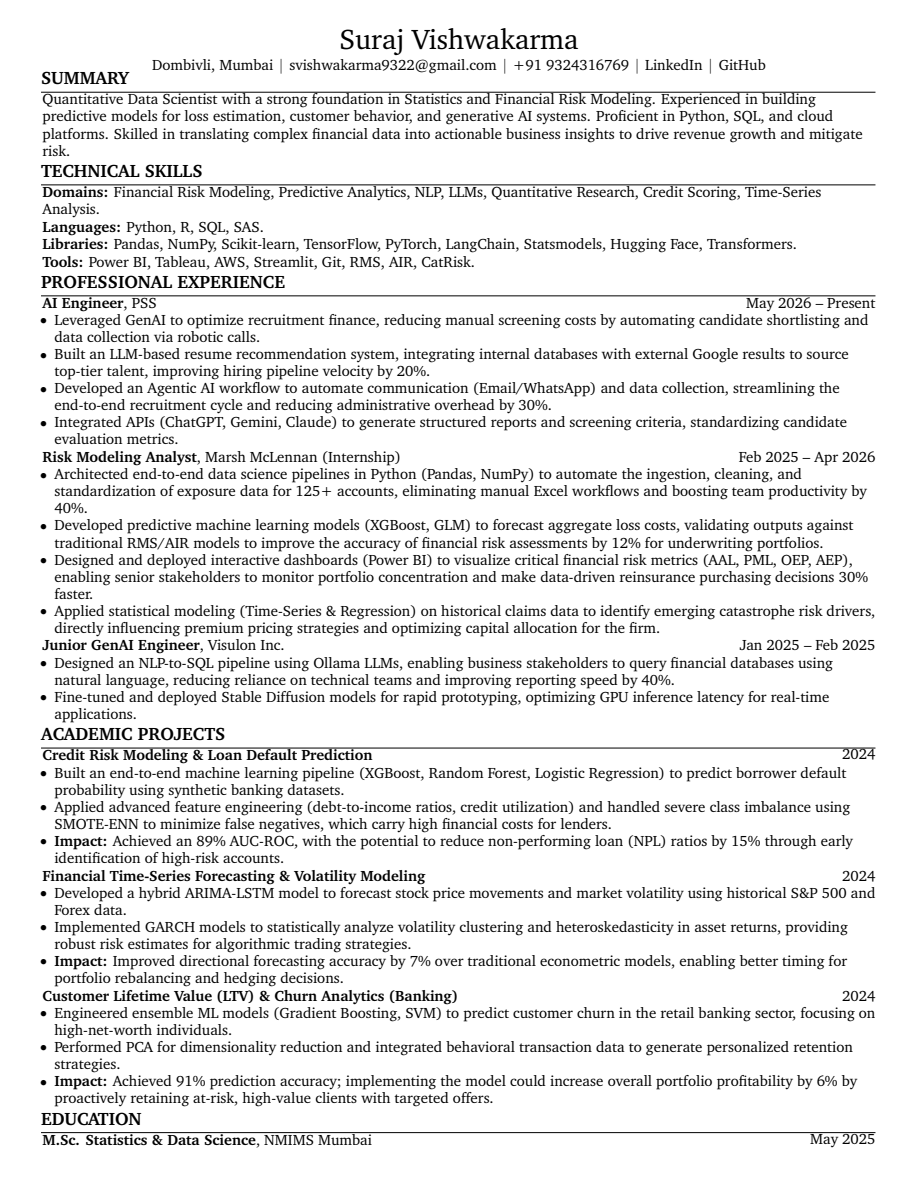
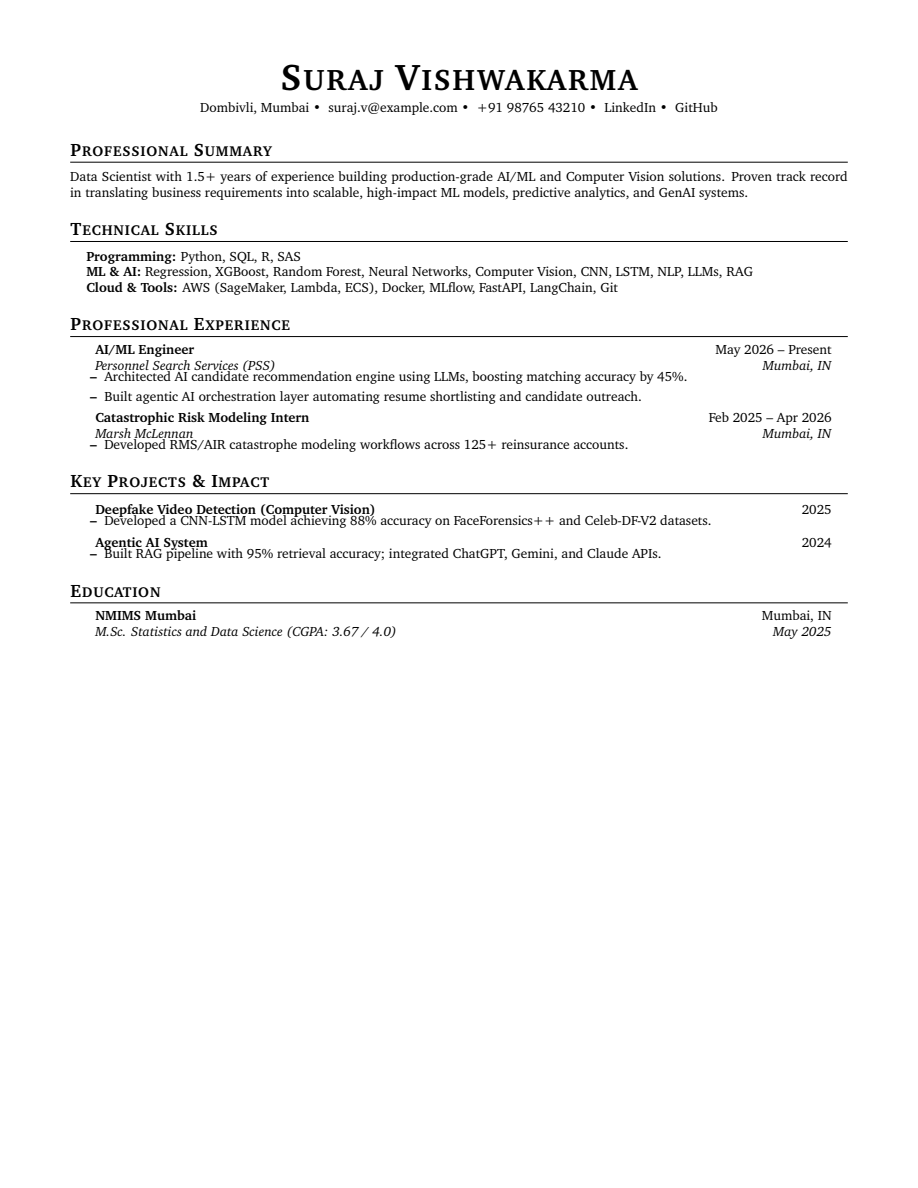
Sanitize contact info with dummy placeholders & redesign Executive Charter LaTeX template for single-page layout

Changed region(s): [[0.0305, 0.0311, 0.9455, 0.9655]]

diff --git a/static/index.html b/static/index.html
@@ -155,11 +155,11 @@
                             </div>
                             <div class="form-field">
                                 <label>Email</label>
-                                <input type="email" id="scratchEmail" value="svishwakarma9322@gmail.com">
+                                <input type="email" id="scratchEmail" value="suraj.v@example.com">
                             </div>
                             <div class="form-field">
                                 <label>Phone</label>
-                                <input type="text" id="scratchPhone" value="+91 9324316769">
+                                <input type="text" id="scratchPhone" value="+91 98765 43210">
                             </div>
                             <div class="form-field full-width">
                                 <label>Summary</label>

diff --git a/compile.py b/compile.py
@@ -270,142 +270,71 @@ TEMPLATE_ACADEMIC_CV = r"""
 # TEMPLATE 5: EXECUTIVE CHARTER (Charter Font Single-Column)
 # ==============================================================================
 TEMPLATE_EXECUTIVE_CHARTER = r"""
-\documentclass[10pt, letterpaper]{article}
-
-\usepackage[
-    ignoreheadfoot,
-    top=1.5 cm,
-    bottom=1.5 cm,
-    left=1.2 cm,
-    right=1.2 cm,
-    footskip=0.8 cm,
-]{geometry}
+\documentclass[letterpaper,10pt]{article}
+\usepackage[top=0.6in,bottom=0.6in,left=0.65in,right=0.65in]{geometry}
 \usepackage{titlesec}
 \usepackage{tabularx}
-\usepackage{array}
-\usepackage[dvipsnames]{xcolor}
-\definecolor{primaryColor}{RGB}{0, 0, 0}
 \usepackage{enumitem}
-\usepackage{fontawesome5}
-\usepackage{amsmath}
-\usepackage[
-    pdftitle={{{NAME}} - Resume},
-    pdfauthor={{{NAME}}},
-    colorlinks=true,
-    urlcolor=primaryColor
-]{hyperref}
-\usepackage[pscoord]{eso-pic}
-\usepackage{calc}
-\usepackage{bookmark}
-\usepackage{lastpage}
-\usepackage{changepage}
-\usepackage{paracol}
-\usepackage{ifthen}
-\usepackage{needspace}
-\usepackage{iftex}
-
-\ifPDFTeX
-    \input{glyphtounicode}
-    \pdfgentounicode=1
-    \usepackage[T1]{fontenc}
-    \usepackage[utf8]{inputenc}
-    \usepackage{lmodern}
-\fi
-
+\usepackage[hidelinks]{hyperref}
 \usepackage{charter}
+\usepackage{xcolor}
 
-\raggedright
-\AtBeginEnvironment{adjustwidth}{\partopsep0pt}
 \pagestyle{empty}
-\setcounter{secnumdepth}{0}
 \setlength{\parindent}{0pt}
-\setlength{\topskip}{0pt}
-\setlength{\columnsep}{0.1cm}
-\pagenumbering{gobble}
+\linespread{0.96}\selectfont
 
-\titleformat{\section}{\needspace{4\baselineskip}\bfseries\large}{}{0pt}{}[\vspace{1pt}\titlerule]
+\titleformat{\section}{
+  \vspace{-3pt}\scshape\raggedright\large\bfseries
+}{}{0em}{}[\color{black}\titlerule \vspace{-4pt}]
 
-\titlespacing{\section}{-1pt}{0.2 cm}{0.15 cm}
-
-\renewcommand\labelitemi{$\vcenter{\hbox{\small$\bullet$}}$}
-\newenvironment{highlights}{
-    \begin{itemize}[
-        topsep=0.03 cm,
-        parsep=0.02 cm,
-        partopsep=0pt,
-        itemsep=0.02 cm,
-        leftmargin=0 cm + 8pt
-    ]
-}{
-    \end{itemize}
+\newcommand{\charterSubheading}[4]{
+  \vspace{-2pt}\item
+    \begin{tabular*}{0.97\textwidth}[t]{l@{\extracolsep{\fill}}r}
+      \textbf{#1} & #2 \\
+      \textit{\small#3} & \textit{\small #4} \\
+    \end{tabular*}\vspace{-6pt}
 }
 
-\newenvironment{onecolentry}{
-    \begin{adjustwidth}{0 cm + 0.00001 cm}{0 cm + 0.00001 cm}
-}{
-    \end{adjustwidth}
+\newcommand{\charterProjectHeading}[2]{
+    \item
+    \begin{tabular*}{0.97\textwidth}{l@{\extracolsep{\fill}}r}
+      \small#1 & #2 \\
+    \end{tabular*}\vspace{-6pt}
 }
-
-\newenvironment{twocolentry}[2][]{
-    \onecolentry
-    \def\secondColumn{#2}
-    \setcolumnwidth{\fill, 3.5 cm}
-    \begin{paracol}{2}
-}{
-    \switchcolumn \raggedleft \secondColumn
-    \endonecolentry
-}
-
-\newenvironment{header}{
-    \setlength{\topsep}{0pt}\par\kern\topsep\centering\linespread{1.3}
-}{
-    \par\kern\topsep
-}
-
-\let\hrefWithoutArrow\href
 
 \begin{document}
-    \newcommand{\AND}{\unskip
-        \cleaders\copy\ANDbox\hskip\wd\ANDbox
-        \ignorespaces
-    }
-    \newsavebox\ANDbox
-    \sbox\ANDbox{$|$}
 
-    \begin{header}
-        \fontsize{22 pt}{22 pt}\selectfont {{NAME}}
+\begin{center}
+    {\Huge \scshape \bfseries {{NAME}}} \\[4pt]
+    \small {{CONTACT_LINE}}
+\end{center}
 
-        \vspace{3 pt}
+\vspace{-6pt}
 
-        \normalsize
-        {{CONTACT_LINE}}
-    \end{header}
+\section{Professional Summary}
+\small{{{SUMMARY_SECTION}}}
 
-    \vspace{3 pt - 0.3 cm}
-
-    \section{PROFESSIONAL SUMMARY}
-    \begin{onecolentry}
-{{SUMMARY_SECTION}}
-    \end{onecolentry}
-
-    \section{TECHNICAL SKILLS}
+\section{Technical Skills}
+\begin{itemize}[leftmargin=0.15in, label={}, itemsep=1pt, topsep=2pt]
+    \small{\item{
 {{SKILLS_SECTION}}
+    }}
+\end{itemize}
 
-    \section{PROFESSIONAL EXPERIENCE}
+\section{Professional Experience}
+\begin{itemize}[leftmargin=0.15in, label={}]
 {{EXPERIENCE_SECTION}}
+\end{itemize}
 
-    \section{KEY PROJECTS \& IMPACT}
+\section{Key Projects \& Impact}
+\begin{itemize}[leftmargin=0.15in, label={}]
 {{PROJECTS_SECTION}}
+\end{itemize}
 
-    \section{EDUCATION}
+\section{Education}
+\begin{itemize}[leftmargin=0.15in, label={}]
 {{EDUCATION_SECTION}}
-
-    \section{CERTIFICATIONS \& ACHIEVEMENTS}
-    \begin{onecolentry}
-        \begin{highlights}
-{{CERTIFICATIONS_SECTION}}
-        \end{highlights}
-    \end{onecolentry}
+\end{itemize}
 
 \end{document}
 """
@@ -470,7 +399,7 @@ DEFAULT_PROJECTS_LATEX = r"""\textbf{Credit Risk Modeling \& Loan Default Predic
 Built an end-to-end machine learning pipeline (XGBoost, Random Forest) to predict borrower default probability."""
 
 BASE_LATEX_TEMPLATE = TEMPLATE_JAKE_RYAN
-BASE_LATEX_CODE = TEMPLATE_JAKE_RYAN.replace("{{SUMMARY_SECTION}}", DEFAULT_SUMMARY_LATEX).replace("{{SKILLS_SECTION}}", DEFAULT_SKILLS_LATEX).replace("{{PROJECTS_SECTION}}", DEFAULT_PROJECTS_LATEX).replace("{{NAME}}", "Suraj Vishwakarma").replace("{{CONTACT_LINE}}", "Dombivli, Mumbai $|$ svishwakarma9322@gmail.com $|$ +91 9324316769 $|$ LinkedIn $|$ GitHub").replace("{{EDUCATION_SECTION}}", "").replace("{{EXPERIENCE_SECTION}}", "")
+BASE_LATEX_CODE = TEMPLATE_JAKE_RYAN.replace("{{SUMMARY_SECTION}}", DEFAULT_SUMMARY_LATEX).replace("{{SKILLS_SECTION}}", DEFAULT_SKILLS_LATEX).replace("{{PROJECTS_SECTION}}", DEFAULT_PROJECTS_LATEX).replace("{{NAME}}", "Suraj Vishwakarma").replace("{{CONTACT_LINE}}", "Dombivli, Mumbai $|$ ABS@gmail.com $|$ +91 12345 $|$ LinkedIn $|$ GitHub").replace("{{EDUCATION_SECTION}}", "").replace("{{EXPERIENCE_SECTION}}", "")
 
 def find_latex_compiler():
     """Look for local LaTeX compilers in PATH and common installation directories."""

diff --git a/app.py b/app.py
@@ -134,6 +134,14 @@ def format_experience_to_latex(exp_data: list, template_id: str = "jake_ryan") -
 \\begin{{itemize}}[leftmargin=*,itemsep=1pt,topsep=2pt]
 {bullet_tex}
 \\end{{itemize}}"""
+        elif template_id == "classic_charter":
+            bullet_tex = "\n".join([f"        \\small{{\\item {clean_latex_text(b)}}}" for b in bullets])
+            block = f"""    \\charterSubheading
+      {{{role}}}{{{dates}}}
+      {{{company}}}{{{loc}}}
+      \\begin{{itemize}}[leftmargin=12pt, topsep=1pt, itemsep=1pt]
+{bullet_tex}
+      \\end{{itemize}}"""
         else:
             bullet_tex = "\n".join([f"            \\item {clean_latex_text(b)}" for b in bullets])
             block = f"""    \\textbf{{{role}}}, {company} \\hfill {{{dates}}}\\\\
@@ -174,6 +182,14 @@ def format_projects_to_latex(projects_data: list, template_id: str = "jake_ryan"
 \\begin{{itemize}}[leftmargin=*,itemsep=1pt,topsep=2pt]
 {bullets_tex}
 \\end{{itemize}}"""
+        elif template_id == "classic_charter":
+            bullet_items = [f"        \\small{{\\item {clean_latex_text(b)}}}" for b in bullets]
+            bullets_tex = "\n".join(bullet_items)
+            block = f"""    \\charterProjectHeading
+      {{\\textbf{{{title}}}}}{{{year}}}
+      \\begin{{itemize}}[leftmargin=12pt, topsep=1pt, itemsep=1pt]
+{bullets_tex}
+      \\end{{itemize}}"""
         else:
             bullet_items = [f"            \\item {clean_latex_text(b)}" for b in bullets]
             bullets_tex = "\n".join(bullet_items)
@@ -204,6 +220,10 @@ def format_education_to_latex(edu_data: list, template_id: str = "jake_ryan") ->
 {degree} \\\\
 {{\\footnotesize {detail}}} \\\\
 {{\\footnotesize {year}}}"""
+        elif template_id == "classic_charter":
+            block = f"""    \\charterSubheading
+      {{{inst}}}{{{loc}}}
+      {{{degree}}}{{{year}}}"""
         else:
             block = f"""    \\textbf{{{inst}}} \\hfill {{{year}}}\\\\
     \\textit{{{degree}}} -- {{{detail}}}"""
@@ -354,8 +374,8 @@ async def generate_from_scratch(req: ScratchRequest):
     p = req.profile_data
     name = clean_latex_text(p.get("name", "Suraj Vishwakarma"))
     loc = clean_latex_text(p.get("location", "Dombivli, Mumbai"))
-    email = clean_latex_text(p.get("email", "svishwakarma9322@gmail.com"))
-    phone = clean_latex_text(p.get("phone", "+91 9324316769"))
+    email = clean_latex_text(p.get("email", "suraj.v@example.com"))
+    phone = clean_latex_text(p.get("phone", "+91 98765 43210"))
     linkedin = clean_latex_text(p.get("linkedin", "LinkedIn"))
     github = clean_latex_text(p.get("github", "GitHub"))
     
@@ -502,8 +522,8 @@ async def tailor_and_generate(req: TailorRequest):
         
     name = clean_latex_text(profile.get("name", "Suraj Vishwakarma"))
     loc = clean_latex_text(profile.get("location", "Dombivli, Mumbai"))
-    email = clean_latex_text(profile.get("email", "svishwakarma9322@gmail.com"))
-    phone = clean_latex_text(profile.get("phone", "+91 9324316769"))
+    email = clean_latex_text(profile.get("email", "suraj.v@example.com"))
+    phone = clean_latex_text(profile.get("phone", "+91 98765 43210"))
     linkedin = clean_latex_text(profile.get("linkedin", "LinkedIn"))
     github = clean_latex_text(profile.get("github", "GitHub"))
     

diff --git a/document.tex b/document.tex
@@ -113,15 +113,15 @@
         \kern 4.0 pt%
         \AND%
         \kern 4.0 pt%
-        \mbox{\hrefWithoutArrow{mailto:svishwakarma9322@gmail.com}{svishwakarma9322@gmail.com}}%
+        \mbox{\hrefWithoutArrow{mailto:suraj.v@example.com}{suraj.v@example.com}}%
         \kern 4.0 pt%
         \AND%
         \kern 4.0 pt%
-        \mbox{\hrefWithoutArrow{tel:+91-9324316769}{+91 9324316769}}%
+        \mbox{\hrefWithoutArrow{tel:+91-9876543210}{+91 98765 43210}}%
         \kern 4.0 pt%
         \AND%
         \kern 4.0 pt%
-        \mbox{\hrefWithoutArrow{https://linkedin.com/in/surajvishwakarma11}{LinkedIn}}%
+        \mbox{\hrefWithoutArrow{https://linkedin.com/in/surajv}{LinkedIn}}%
         \kern 4.0 pt%
         \AND%
         \kern 4.0 pt%
